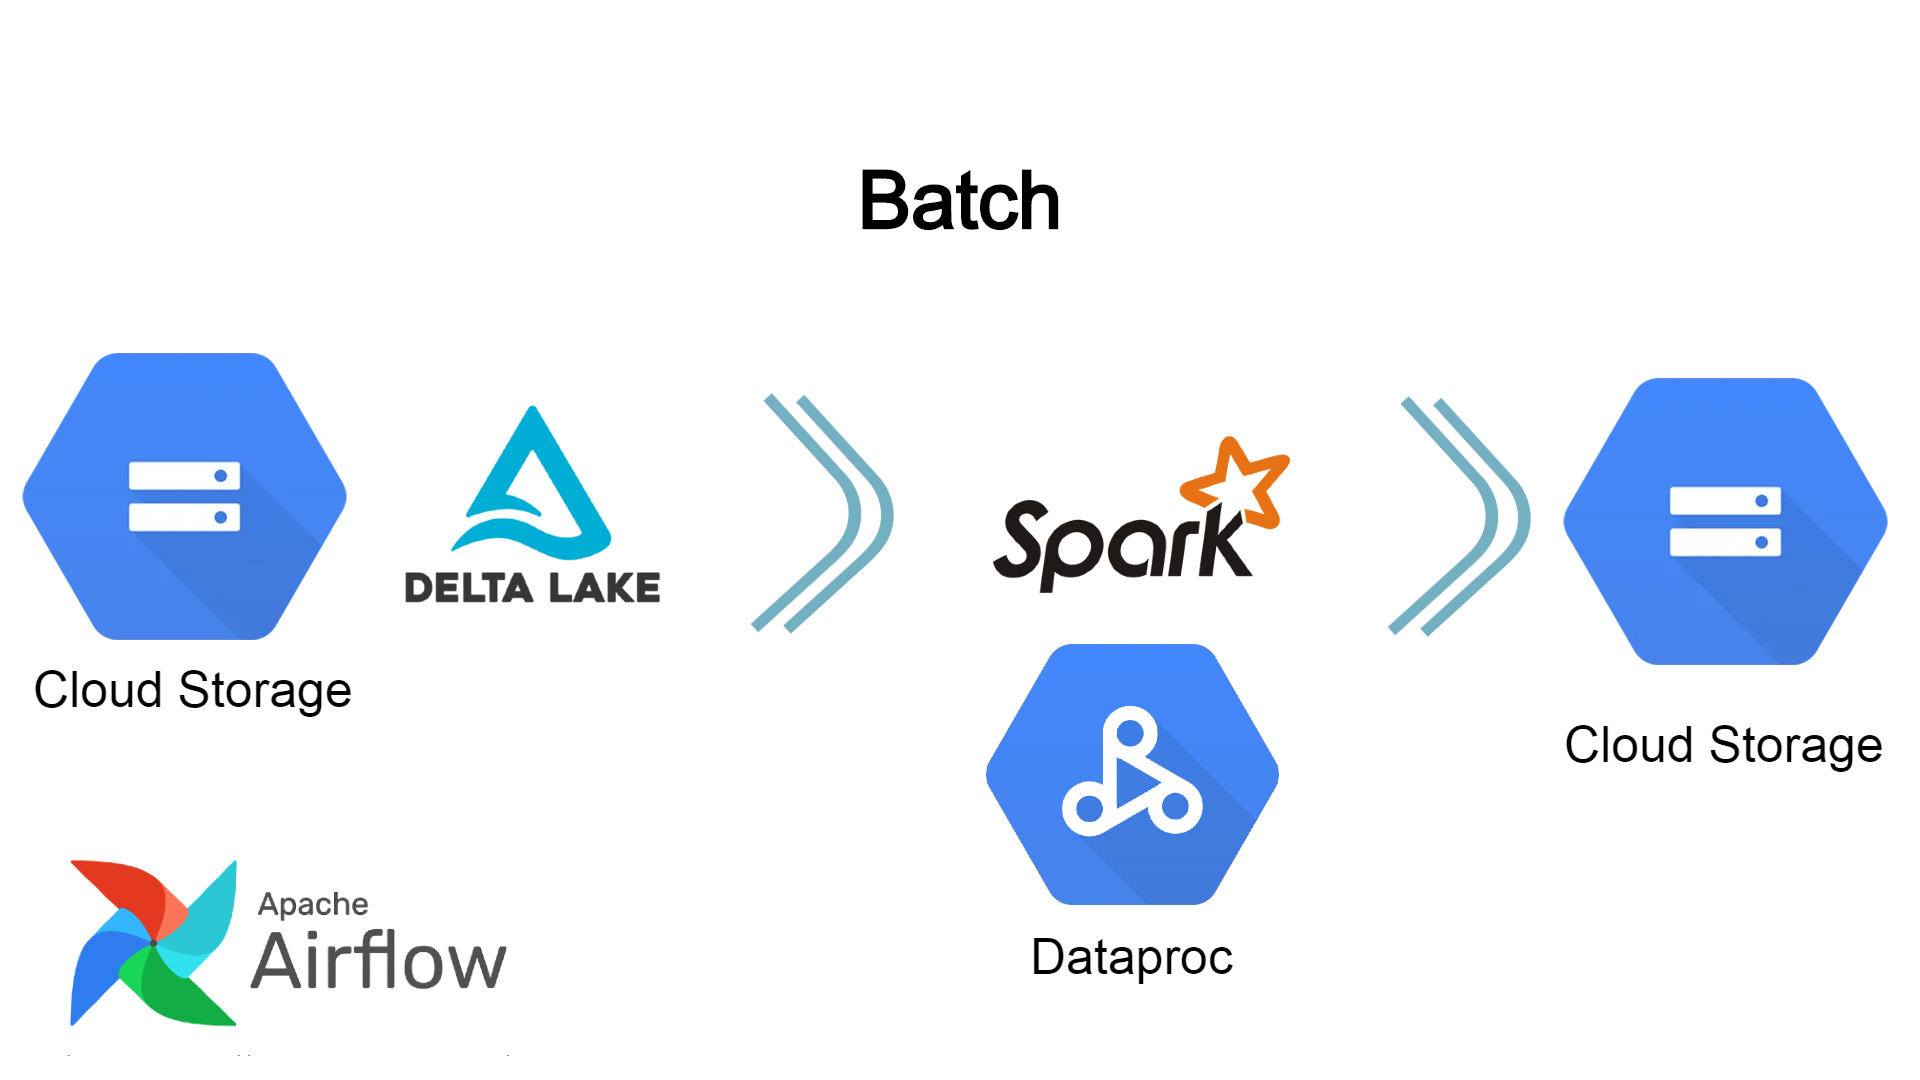
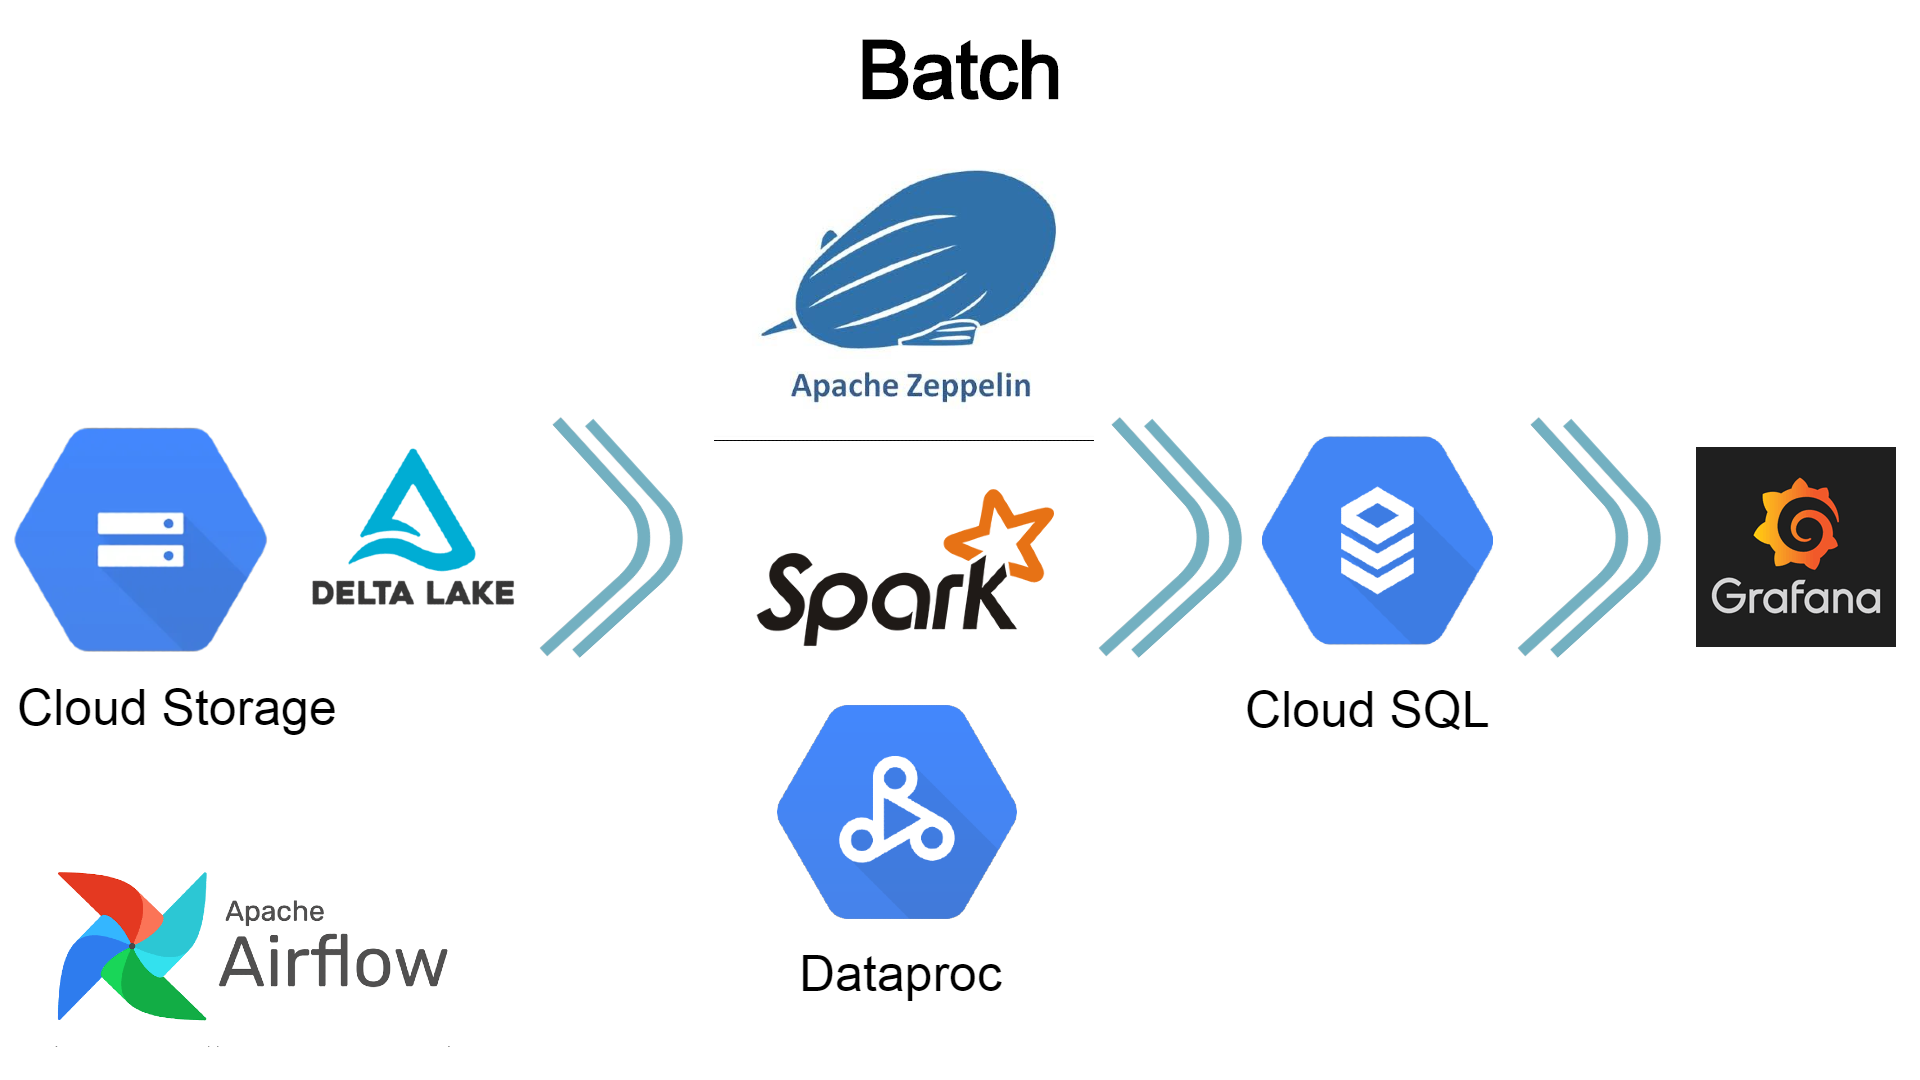
Update README

diff --git a/README.md b/README.md
@@ -14,7 +14,7 @@ Arquitetura do projeto:
 - Ingestão no Spark
 - Inserção desses dados no Delta Lake
 - Leitura dos dados do Delta Lake no Batch Job diário
-- Inserção dos dados processados no Data Lake no formato json (também poderia salvar num banco de dados relacional ou NoSQL)
+- Inserção dos dados processados do Data Lake no MySQL (Cloud SQL)
 
 GCP Products:
 - Cloud Dataproc (Apache Spark + Apache Zeppelin)
